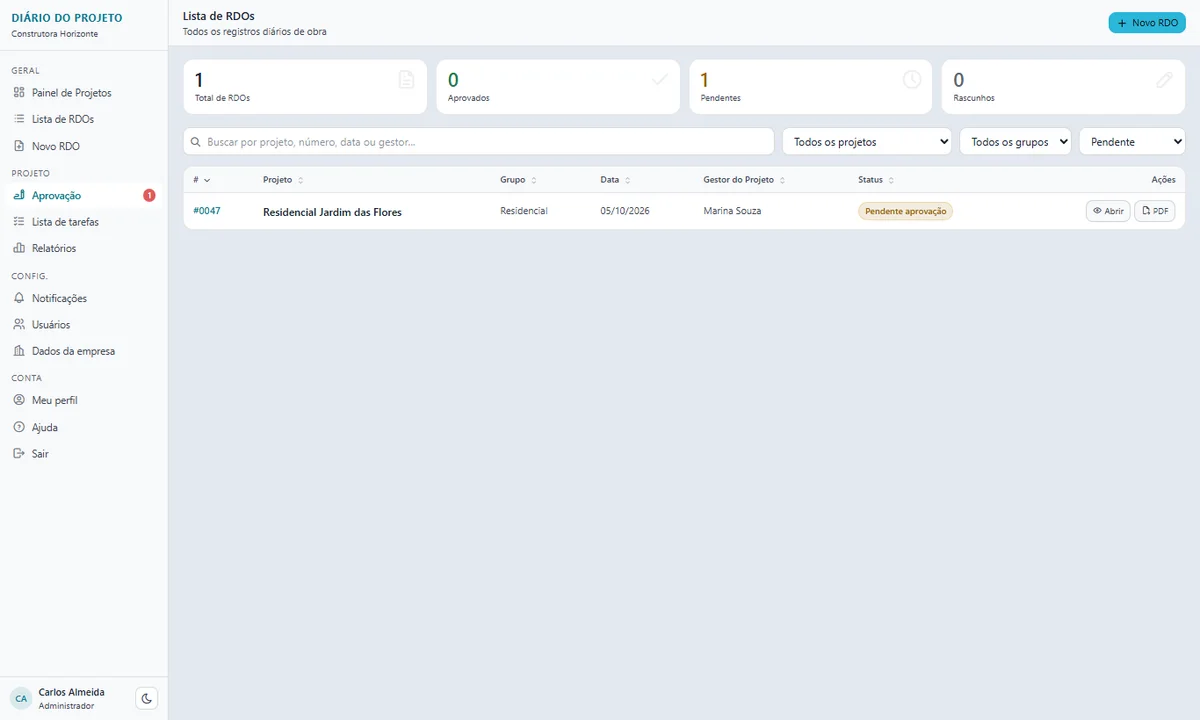
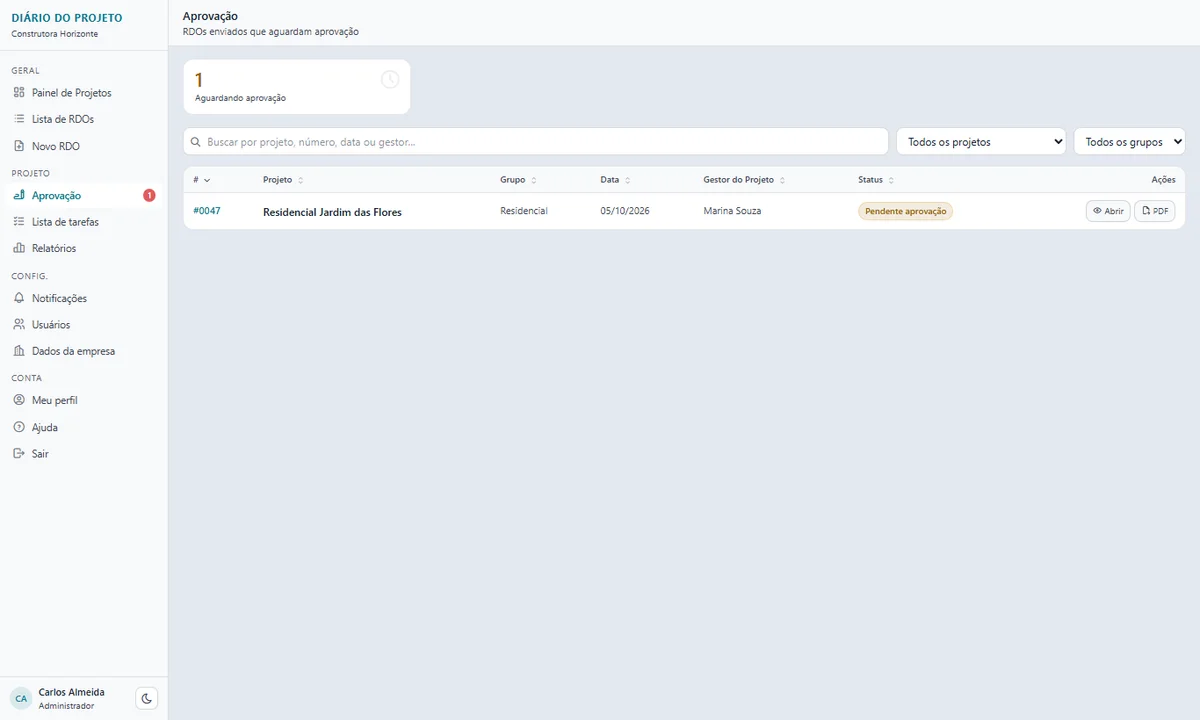
Aprovação: tela dedicada aos RDOs pendentes, sem filtro de status (links antigos redirecionam)

Changed region(s): [[0.3392, 0.0, 0.9867, 0.2139], [0.1542, 0.0, 0.3083, 0.0611], [0.1542, 0.1222, 0.2467, 0.1528]]

diff --git a/app/(app)/rdos/page.tsx b/app/(app)/rdos/page.tsx
@@ -25,7 +25,9 @@ export default function RdosPage() {
 
 // projetoIdFixo: quando informado, trava o filtro nesse projeto e omite o Topbar —
 // usado para embutir a lista dentro do modal "RDOs do projeto" no resumo do projeto.
-export function RdosContent({ projetoIdFixo }: { projetoIdFixo?: string } = {}) {
+// modoAprovacao: tela dedicada do item "Aprovação" do menu — só os RDOs pendentes de aprovação, sem o
+// filtro de status e sem o botão de novo RDO (ver app/(app)/aprovacao/page.tsx).
+export function RdosContent({ projetoIdFixo, modoAprovacao }: { projetoIdFixo?: string; modoAprovacao?: boolean } = {}) {
   const router  = useRouter()
   const { abrirNovoRdo } = useNovoRdo()
   const searchParams = useSearchParams()
@@ -33,7 +35,9 @@ export function RdosContent({ projetoIdFixo }: { projetoIdFixo?: string } = {}) 
   // Os filtros podem vir na URL (ao voltar da tela de aprovação com a fila filtrada)
   const [busca, setBusca] = useState(() => searchParams.get('busca') ?? '')
   const [buscaAplicada, setBuscaAplicada] = useState(() => (searchParams.get('busca') ?? '').trim())
-  const [status, setStatus] = useState(() => searchParams.get('status') ?? '')
+  const [statusLista, setStatus] = useState(() => searchParams.get('status') ?? '')
+  // Na tela de Aprovação o status é sempre "pendente de aprovação" (só o que está liberado para aprovar)
+  const status = modoAprovacao ? 'PENDENTE_APROVACAO' : statusLista
   const [grupo, setGrupo] = useState(() => searchParams.get('grupo') ?? '')
   const [projetoId, setProjetoId] = useState(() => projetoIdFixo ?? searchParams.get('projetoId') ?? '')
   const [pagina, setPagina] = useState(1)
@@ -50,12 +54,15 @@ export function RdosContent({ projetoIdFixo }: { projetoIdFixo?: string } = {}) 
     setPagina(1)
   }
 
-  // Ao navegar pelo menu entre "Lista de RDOs" e "Aprovação" (mesma página,
-  // só a query muda), o componente não remonta — sem isso o filtro ficava
-  // travado no status da navegação anterior até clicar em outro lugar.
+  // Links antigos (/rdos?status=PENDENTE_APROVACAO) vão para a tela de Aprovação
   useEffect(() => {
-    setStatus(searchParams.get('status') ?? '')
-  }, [searchParams])
+    if (modoAprovacao || projetoIdFixo) return
+    if (searchParams.get('status') === 'PENDENTE_APROVACAO') {
+      const q = new URLSearchParams(searchParams.toString())
+      q.delete('status')
+      router.replace(`/aprovacao${q.toString() ? `?${q.toString()}` : ''}`)
+    }
+  }, [modoAprovacao, projetoIdFixo, searchParams, router])
 
   // A busca é feita no servidor (todas as páginas): espera a pessoa parar de digitar
   useEffect(() => {
@@ -114,12 +121,18 @@ export function RdosContent({ projetoIdFixo }: { projetoIdFixo?: string } = {}) 
 
   const conteudo = (
     <>
-        <div className="kgrid" style={{ gridTemplateColumns: 'repeat(4,1fr)' }}>
-          <KpiCard icon="ti-file-text"  valor={total}     label="Total de RDOs" />
-          <KpiCard icon="ti-check"      valor={aprovados} label="Aprovados"    cor="var(--tsu)" />
-          <KpiCard icon="ti-clock"      valor={pendentes} label="Pendentes"    cor="var(--tw)" />
-          <KpiCard icon="ti-pencil"     valor={rascunhos} label="Rascunhos"    cor="var(--tm)" />
-        </div>
+        {modoAprovacao ? (
+          <div className="kgrid" style={{ gridTemplateColumns: 'minmax(0, 260px)' }}>
+            <KpiCard icon="ti-clock" valor={pendentes} label="Aguardando aprovação" cor="var(--tw)" />
+          </div>
+        ) : (
+          <div className="kgrid" style={{ gridTemplateColumns: 'repeat(4,1fr)' }}>
+            <KpiCard icon="ti-file-text"  valor={total}     label="Total de RDOs" />
+            <KpiCard icon="ti-check"      valor={aprovados} label="Aprovados"    cor="var(--tsu)" />
+            <KpiCard icon="ti-clock"      valor={pendentes} label="Pendentes"    cor="var(--tw)" />
+            <KpiCard icon="ti-pencil"     valor={rascunhos} label="Rascunhos"    cor="var(--tm)" />
+          </div>
+        )}
 
         <div className="fr-row">
           <AutocompleteSearchInput placeholder="Buscar por projeto, número, data ou gestor..." value={busca} onChange={setBusca}
@@ -136,12 +149,14 @@ export function RdosContent({ projetoIdFixo }: { projetoIdFixo?: string } = {}) 
               {grupos.map(g => <option key={g} value={g}>{g}</option>)}
             </select>
           )}
-          <select className="fsel" value={status} onChange={e => setStatus(e.target.value)}>
-            <option value="">Todos os status</option>
-            <option value="APROVADO">Aprovado</option>
-            <option value="PENDENTE_APROVACAO">Pendente</option>
-            <option value="RASCUNHO">Rascunho</option>
-          </select>
+          {!modoAprovacao && (
+            <select className="fsel" value={status} onChange={e => setStatus(e.target.value)}>
+              <option value="">Todos os status</option>
+              <option value="APROVADO">Aprovado</option>
+              <option value="PENDENTE_APROVACAO">Pendente</option>
+              <option value="RASCUNHO">Rascunho</option>
+            </select>
+          )}
           {/* Só aqui dentro do modal "RDOs do projeto" (sem Topbar, ver abaixo)
               — na página normal esse botão duplicava o do Topbar. */}
           {projetoIdFixo && (
@@ -168,7 +183,7 @@ export function RdosContent({ projetoIdFixo }: { projetoIdFixo?: string } = {}) 
               {isLoading ? (
                 <tr><td colSpan={projetoIdFixo ? 6 : 7}><Skeleton h={200} /></td></tr>
               ) : filtrados.length === 0 ? (
-                <tr><td colSpan={projetoIdFixo ? 6 : 7} style={{ textAlign: 'center', padding: 32, color: 'var(--tm)' }}>Nenhum RDO encontrado.</td></tr>
+                <tr><td colSpan={projetoIdFixo ? 6 : 7} style={{ textAlign: 'center', padding: 32, color: 'var(--tm)' }}>{modoAprovacao ? 'Nenhum RDO aguardando aprovação.' : 'Nenhum RDO encontrado.'}</td></tr>
               ) : filtrados.map(r => (
                 <tr key={r.id} onClick={() => router.push(abrirRdo(r))}>
                   <td style={{ fontSize: 11, fontWeight: 600, color: 'var(--ta)' }}>#{numeroRdo(r.numero)}</td>
@@ -219,18 +234,22 @@ export function RdosContent({ projetoIdFixo }: { projetoIdFixo?: string } = {}) 
   return (
     <div className="main">
       <Topbar
-        titulo="Lista de RDOs"
-        subtitulo={projetoId ? `Filtrado por: ${nomeProjetoFiltrado ?? 'projeto selecionado'}` : 'Todos os registros diários de obra'}
+        titulo={modoAprovacao ? 'Aprovação' : 'Lista de RDOs'}
+        subtitulo={projetoId
+          ? `Filtrado por: ${nomeProjetoFiltrado ?? 'projeto selecionado'}`
+          : modoAprovacao ? 'RDOs enviados que aguardam aprovação' : 'Todos os registros diários de obra'}
         acoes={
           <>
             {projetoId && (
-              <button className="btn btn-sm" onClick={() => router.push('/rdos')}>
+              <button className="btn btn-sm" onClick={() => router.push(modoAprovacao ? '/aprovacao' : '/rdos')}>
                 <i className="ti ti-x" /> Limpar filtro de projeto
               </button>
             )}
-            <button className="btn btn-p btn-sm" onClick={handleNovoRdo}>
-              <i className="ti ti-plus" /> Novo RDO
-            </button>
+            {!modoAprovacao && (
+              <button className="btn btn-p btn-sm" onClick={handleNovoRdo}>
+                <i className="ti ti-plus" /> Novo RDO
+              </button>
+            )}
           </>
         }
       />

diff --git a/app/(app)/ajuda/conteudo.ts b/app/(app)/ajuda/conteudo.ts
@@ -83,7 +83,7 @@ export const SECOES: Secao[] = [
           ['Geral', 'Painel de Projetos', 'Visão geral de todos os projetos e acesso à pasta de cada um.'],
           ['Geral', 'Lista de RDOs', 'Todos os relatórios diários, com busca e filtros.'],
           ['Geral', 'Novo RDO', 'Abre a janela para criar um relatório diário de obra.'],
-          ['Projeto', 'Aprovação', 'Fila de RDOs esperando assinatura. O número vermelho mostra quantos estão pendentes.'],
+          ['Projeto', 'Aprovação', 'Tela dedicada aos RDOs que aguardam aprovação (só os pendentes). O número vermelho mostra quantos estão pendentes.'],
           ['Projeto', 'Lista de tarefas', 'Etapas e atividades de cada projeto (EAP).'],
           ['Projeto', 'Relatórios', 'Indicadores e gráficos de desempenho, com exportação em PDF.'],
           ['Config.', 'Notificações', 'Escolha quais avisos por e-mail você quer receber.'],
@@ -354,7 +354,7 @@ export const SECOES: Secao[] = [
     titulo: 'Aprovação e assinatura',
     resumo: 'Como revisar, assinar ou devolver um RDO para correção.',
     blocos: [
-      { t: 'p', x: 'Depois que o RDO é enviado, quem deve assinar recebe um aviso por e-mail. No menu, o item **Aprovação** mostra um número vermelho com a quantidade de RDOs aguardando.' },
+      { t: 'p', x: 'Depois que o RDO é enviado, quem deve assinar recebe um aviso por e-mail. No menu, o item **Aprovação** mostra um número vermelho com a quantidade de RDOs aguardando. Ele abre uma **tela só de aprovação**: lista apenas os RDOs pendentes, por isso **não tem o filtro de status** nem o botão de novo RDO. Os filtros de **projeto**, **grupo** e a **busca** (por projeto, número, data ou gestor) continuam disponíveis.' },
       { t: 'img', src: '/ajuda/aprovacao-lista.webp', alt: 'Fila de RDOs pendentes de aprovação', legenda: 'Fila de RDOs pendentes de aprovação.' },
       { t: 'h', x: 'Estados de um RDO' },
       {
@@ -377,7 +377,7 @@ export const SECOES: Secao[] = [
           'Para devolver, escreva o **motivo** no campo de texto e clique em **Revisar**. O emissor recebe o aviso para ajustar.',
         ],
       },
-      { t: 'dica', x: 'Aprovando vários RDOs em sequência: quando você abre o RDO pelo item **Aprovação** do menu, as setas **‹ ›** do rodapé passam a andar **somente pelos RDOs pendentes de assinatura**, de todos os projetos, do mais antigo para o mais novo (o rodapé mostra "pendente 2 de 5"). Se a lista estiver **filtrada** (por projeto, grupo ou busca), as setas andam só pelos pendentes daquele recorte: filtrou um projeto, passa apenas pelos RDOs pendentes dele. Assine, clique em **›** e siga para o próximo. **Voltar à lista** leva de volta à lista dos pendentes, com os mesmos filtros. Abrindo o RDO pela **Lista de RDOs**, as setas andam por todos os RDOs do projeto.' },
+      { t: 'dica', x: 'Aprovando vários RDOs em sequência: quando você abre o RDO pelo item **Aprovação** do menu, as setas **‹ ›** do rodapé passam a andar **somente pelos RDOs pendentes de assinatura**, de todos os projetos, do mais antigo para o mais novo (o rodapé mostra "pendente 2 de 5"). Se a lista estiver **filtrada** (por projeto, grupo ou busca), as setas andam só pelos pendentes daquele recorte: filtrou um projeto, passa apenas pelos RDOs pendentes dele. Assine, clique em **›** e siga para o próximo. **Voltar à lista** leva de volta à tela de Aprovação, com os mesmos filtros. Abrindo o RDO pela **Lista de RDOs**, as setas andam por todos os RDOs do projeto.' },
       { t: 'img', src: '/ajuda/aprovacao-topo.webp', alt: 'RDO aberto para aprovação' },
       { t: 'img', src: '/ajuda/aprovacao-assinaturas.webp', alt: 'Seção Assinaturas do RDO', legenda: 'Seção Assinaturas: quem já assinou, quem falta, campo de motivo e botões Revisar e Assinar.' },
       { t: 'aviso', x: 'Para assinar, você precisa ter **cadastrado a sua assinatura digital** em **Meu perfil**. Se ainda não cadastrou, o botão vira **Cadastrar assinatura pra assinar** e leva você até lá.' },

diff --git a/tests/e2e/rdo-navegacao.spec.ts b/tests/e2e/rdo-navegacao.spec.ts
@@ -91,17 +91,17 @@ test('aberto pela fila de aprovação, as setas andam só pelos RDOs pendentes',
   await page.waitForURL(u => u.pathname.endsWith(`/aprovacao/${b}`) && u.search.includes('fila=pendentes'))
 })
 
-test('abrir um RDO pela lista filtrada em "pendentes" (item Aprovação do menu) entra no modo fila', async ({ page }) => {
+test('abrir um RDO pela tela de Aprovação (item do menu) entra no modo fila', async ({ page }) => {
   await login(page)
-  await page.goto('/rdos?status=PENDENTE_APROVACAO')
+  await page.goto('/aprovacao')
   const linha = page.locator('tbody tr').first()
   await expect(linha).toBeVisible()
   await linha.click()
   await page.waitForURL(u => u.pathname.startsWith('/aprovacao/') && u.search.includes('fila=pendentes'))
 
-  // "Voltar à lista" volta para a lista dos pendentes
+  // "Voltar à lista" volta para a tela de Aprovação
   await page.getByRole('button', { name: 'Voltar à lista' }).click()
-  await page.waitForURL(u => u.pathname === '/rdos' && u.search.includes('status=PENDENTE_APROVACAO'))
+  await page.waitForURL(u => u.pathname === '/aprovacao')
 })
 
 test('aberto pela Lista de RDOs normal, as setas continuam andando por todos os RDOs do projeto', async ({ page }) => {
@@ -119,7 +119,7 @@ test('na fila de aprovação filtrada por projeto, as setas só consideram os pe
   await api.dispose()
 
   await login(page)
-  await page.goto('/rdos?status=PENDENTE_APROVACAO')
+  await page.goto('/aprovacao')
   // filtra por projeto na lista
   const selecao = page.locator('select.fsel').filter({ has: page.locator('option', { hasText: 'Todos os projetos' }) })
   await selecao.selectOption(PROJETO_ID)
@@ -131,14 +131,17 @@ test('na fila de aprovação filtrada por projeto, as setas só consideram os pe
     return u.pathname === '/api/app/rdos' && u.searchParams.get('status') === 'PENDENTE_APROVACAO'
       && u.searchParams.get('projetoId') === PROJETO_ID && u.searchParams.get('sortBy') === 'data'
   })
-  await page.locator('tbody tr').first().click()
-  await page.waitForURL(u => u.pathname.startsWith('/aprovacao/')
-    && u.searchParams.get('fila') === 'pendentes' && u.searchParams.get('projetoId') === PROJETO_ID)
+  // (a página hidrata depois de carregar: repete o clique até a navegação acontecer)
+  await expect(async () => {
+    await page.locator('tbody tr').first().click()
+    await page.waitForURL(u => u.pathname.startsWith('/aprovacao/')
+      && u.searchParams.get('fila') === 'pendentes' && u.searchParams.get('projetoId') === PROJETO_ID, { timeout: 3000 })
+  }).toPass({ timeout: 20_000 })
   await pedido
 
   // "Voltar à lista" recupera o filtro de projeto
   await page.getByRole('button', { name: 'Voltar à lista' }).click()
-  await page.waitForURL(u => u.pathname === '/rdos' && u.searchParams.get('projetoId') === PROJETO_ID
-    && u.searchParams.get('status') === 'PENDENTE_APROVACAO')
+  await page.waitForURL(u => u.pathname === '/aprovacao' && u.searchParams.get('projetoId') === PROJETO_ID
+    && !u.searchParams.has('status'))
   await expect(page.locator('select.fsel').filter({ has: page.locator('option', { hasText: 'Todos os projetos' }) })).toHaveValue(PROJETO_ID)
 })

diff --git a/tests/e2e/aprovacao-tela.spec.ts b/tests/e2e/aprovacao-tela.spec.ts
@@ -1,0 +1,50 @@
+import { test, expect } from '@playwright/test'
+import { apiComo, login } from './helpers'
+import { PROJETO_ID } from '../../lib/fake-db-test'
+
+// "Aprovação" (item do menu) é uma tela dedicada: só RDOs pendentes de aprovação, sem o filtro de
+// status (projeto, grupo e busca continuam). Links antigos /rdos?status=PENDENTE_APROVACAO vão para ela.
+// Ver app/(app)/aprovacao/page.tsx e RdosContent (modoAprovacao) em app/(app)/rdos/page.tsx.
+
+test('a tela de Aprovação mostra só RDOs pendentes e não tem o filtro de status', async ({ page, playwright }) => {
+  const api = await apiComo(playwright)
+  const r = await api.post('/api/app/rdos', { data: { projetoId: PROJETO_ID, data: '2027-06-01', copiarAnterior: false } })
+  const { id } = await r.json()
+  expect((await api.post(`/api/app/rdos/${id}/enviar`, { data: {} })).status()).toBe(200)
+  await api.dispose()
+
+  await login(page)
+  await page.goto('/painel')
+  // (a página hidrata depois de carregar: repete o clique até a navegação acontecer)
+  await expect(async () => {
+    await page.locator('.sb').getByRole('link', { name: /Aprovação/ }).click()
+    await page.waitForURL('**/aprovacao', { timeout: 3000 })
+  }).toPass({ timeout: 20_000 })
+
+  await expect(page.getByText('RDOs enviados que aguardam aprovação')).toBeVisible()
+  // sem filtro de status e sem botão de novo RDO; os demais filtros continuam
+  await expect(page.locator('select.fsel option', { hasText: 'Todos os status' })).toHaveCount(0)
+  await expect(page.locator('.main').getByRole('button', { name: 'Novo RDO' })).toHaveCount(0)
+  await expect(page.locator('select.fsel option', { hasText: 'Todos os projetos' })).toHaveCount(1)
+  await expect(page.getByPlaceholder(/Buscar por projeto/)).toBeVisible()
+
+  // só pendentes: todas as linhas trazem o selo "Pendente"
+  const linhas = page.locator('tbody tr')
+  await expect(linhas.first()).toBeVisible()
+  const textos = await linhas.allInnerTexts()
+  expect(textos.length).toBeGreaterThan(0)
+  for (const t of textos) expect(t).toMatch(/Pendente/)
+})
+
+test('link antigo /rdos?status=PENDENTE_APROVACAO leva para a tela de Aprovação', async ({ page }) => {
+  await login(page)
+  await page.goto('/rdos?status=PENDENTE_APROVACAO')
+  await page.waitForURL('**/aprovacao')
+  await expect(page.locator('select.fsel option', { hasText: 'Todos os status' })).toHaveCount(0)
+})
+
+test('a Lista de RDOs continua com o filtro de status', async ({ page }) => {
+  await login(page)
+  await page.goto('/rdos')
+  await expect(page.locator('select.fsel option', { hasText: 'Todos os status' })).toHaveCount(1)
+})

diff --git a/app/(app)/aprovacao/[id]/page.tsx b/app/(app)/aprovacao/[id]/page.tsx
@@ -847,12 +847,11 @@ export default function AprovacaoPage() {
       <div className="ab" style={{ gap: 8, flexWrap: 'wrap' }}>
         <div style={{ display: 'flex', gap: 6, flexWrap: 'wrap' }}>
           <button className="btn btn-sm" onClick={() => {
-            // veio da fila de aprovação? volta para a lista dos pendentes, com os mesmos filtros
+            // veio da fila de aprovação? volta para a tela de Aprovação, com os mesmos filtros
             const q = new URLSearchParams(window.location.search)
             if (q.get('fila') === 'pendentes') {
               q.delete('fila')
-              q.set('status', 'PENDENTE_APROVACAO')
-              router.push(`/rdos?${q.toString()}`)
+              router.push(`/aprovacao${q.toString() ? `?${q.toString()}` : ''}`)
             } else {
               router.push('/rdos')
             }

diff --git a/app/(app)/aprovacao/page.tsx b/app/(app)/aprovacao/page.tsx
@@ -1,0 +1,16 @@
+'use client'
+// Tela de Aprovação (item do menu): lista dedicada aos RDOs que aguardam aprovação.
+// Usa a mesma lista da tela de RDOs, mas com o status travado em "pendente de aprovação"
+// (sem o filtro de status); projeto, grupo e busca continuam disponíveis.
+
+import { Suspense } from 'react'
+import { Skeleton } from '@/components/ui'
+import { RdosContent } from '@/app/(app)/rdos/page'
+
+export default function AprovacaoPage() {
+  return (
+    <Suspense fallback={<div className="main"><div className="content"><Skeleton h={300} /></div></div>}>
+      <RdosContent modoAprovacao />
+    </Suspense>
+  )
+}

diff --git a/components/layout/Sidebar.tsx b/components/layout/Sidebar.tsx
@@ -17,7 +17,7 @@ const NAV: Array<{ group: string; items: ItemNav[] }> = [
     { href: '/rdos/novo',    icon: 'ti-file-plus',        label: 'Novo RDO', modal: true }, // abre a janela de Novo RDO, não uma página
   ]},
   { group: 'Projeto', items: [
-    { href: '/rdos?status=PENDENTE_APROVACAO', icon: 'ti-writing',    label: 'Aprovação' },
+    { href: '/aprovacao', icon: 'ti-writing', label: 'Aprovação' },
     { href: '/tarefas',      icon: 'ti-list-check',       label: 'Lista de tarefas' },
     { href: '/relatorios',   icon: 'ti-chart-bar',        label: 'Relatórios' },
   ]},
